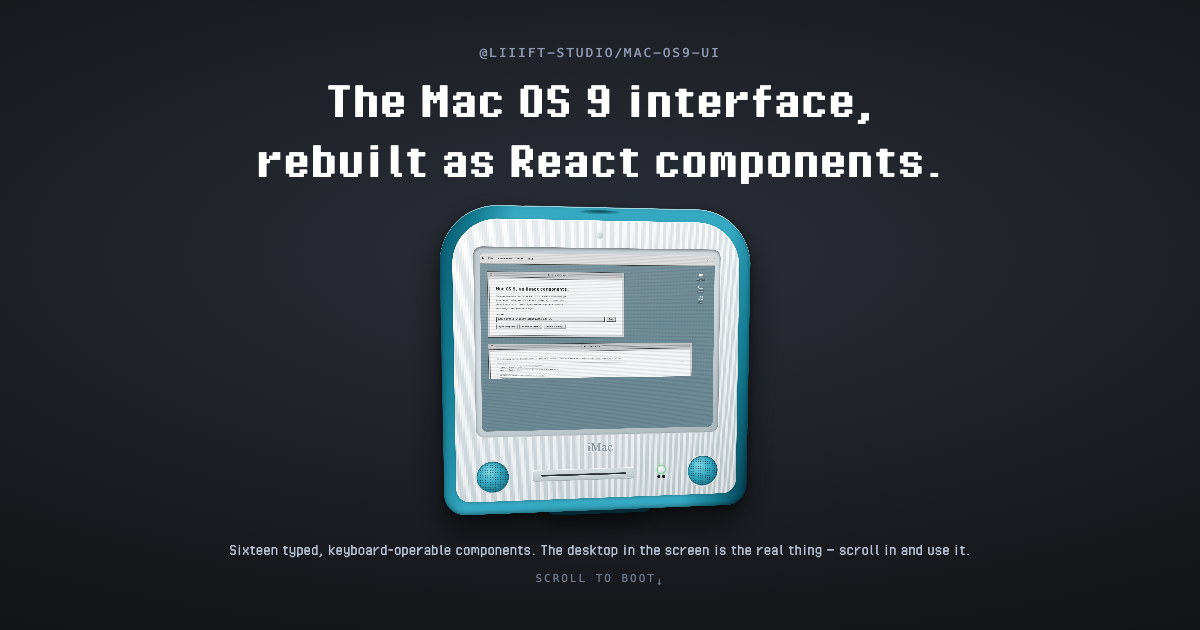
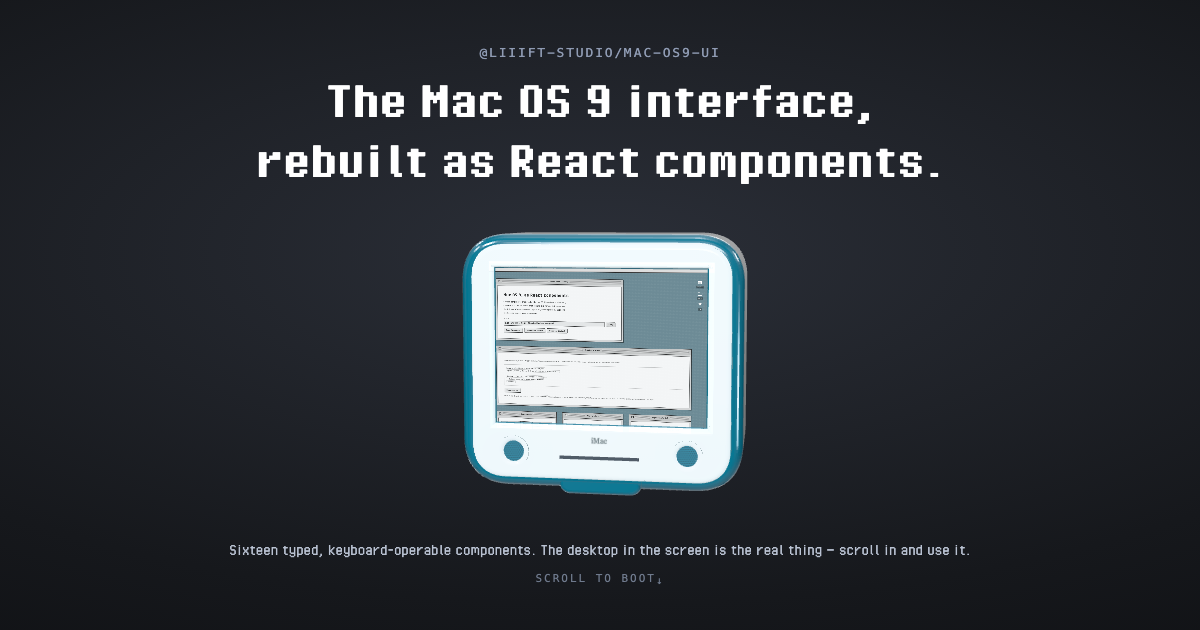
Site: menu bar above the windows, machine centred and larger, translucent shell
Three things wrong on the deployed page, plus one I introduced fixing them.

Windows scrolled over the menu bar. WindowManager hands out `baseZIndex + stack
position` from a default base of 100, and the menu bar was on 60 — so window
content rode over the top of it instead of under. The bar sits above the whole
window range now.

The machine sat high in the hero and was small for the space. The camera looks
at (0, heroCentreY, 0), and a world point at y = 0 lands BELOW the viewport
centre when that target is positive — so the sign follows the band the copy
leaves free rather than opposing it. It was negated, which pushed the machine
up by exactly the amount it should have come down. It also fills 88% of that
band now rather than 66%.

The shell is translucent, which is the whole point of the machine — you could
see into it. This is only safe now that the aperture is cut out of the shell as
well as the front panel: a transmissive material is drawn in the transparent
pass, after the cutout has written its hole, so while the shell was a solid
slab it blended straight over the desktop and washed the entire screen cyan.
With no shell geometry over the aperture there is nothing left to wash it with.
The ice panel gets a little transmission too, since diffusing polycarbonate is
translucent rather than painted.

And the one I made: releasing the desktop wrote inline position styles onto the
host, and un-releasing cleared them — but CSS3DRenderer caches the transform it
[…]

Changed region(s): [[0.3392, 0.3016, 0.6475, 0.8143]]

diff --git a/site/src/components/MachineStage.tsx b/site/src/components/MachineStage.tsx
@@ -1,12 +1,21 @@
 // Chooses how the machine is drawn, and owns the handoff to the live desktop.
 //
-// The desktop lives in one detached host element for the whole session, and
-// that element is *moved* between three homes: the CSS3D layer while the WebGL
-// machine has it, a plain full-viewport wrapper once the zoom completes, and
-// the CSS machine's screen when WebGL is unavailable. Moving the node rather
-// than re-parenting it in React is what keeps the desktop's state — open
-// windows, chosen flavour, selected rows — across the handoff. React renders
-// into the host through a portal and never has to care where it currently is.
+// Two detached elements, created once and never re-created. `host` is the 4:3
+// aperture and belongs to CSS3DRenderer for the whole session — nothing else
+// ever writes to its style. `page` is the viewport-sized desktop inside it,
+// and *that* is what moves: into a plain full-viewport wrapper once the zoom
+// completes, and back into the aperture when you scroll away again.
+//
+// Moving the page rather than the host is deliberate. CSS3DRenderer caches the
+// transform it wrote per object and skips rewriting an unchanged one, so any
+// inline style cleared off the host is never restored — the aperture ends up
+// stranded without its transform and the desktop spills out beside the case.
+// Leaving the host alone means there is nothing to strand.
+//
+// Moving a node rather than re-parenting it in React is what keeps the
+// desktop's state — open windows, chosen flavour, selected rows — across the
+// handoff. React renders into `page` through a portal and never has to care
+// where it currently is.
 //
 // WebGL is loaded on demand and is never on the critical path: if it fails, is
 // unsupported, or the visitor prefers reduced motion, the desktop is simply
@@ -116,25 +125,18 @@ export function MachineStage({ children, above, below }: MachineStageProps) {
 			stage.dataset.released = next ? 'true' : 'false';
 
 			if (next) {
-				release.appendChild(host);
-				// CSS3DRenderer writes position and a matrix3d straight onto the
-				// element it owns. Those survive the move, so they have to be
-				// replaced rather than merely cleared — the aperture is wider
-				// and taller than the viewport, and the page inside it only
-				// lands at 0,0 if the host is centred and top-aligned.
-				host.style.position = 'absolute';
-				host.style.top = '0';
-				host.style.left = '50%';
-				host.style.transform = 'translateX(-50%)';
-				host.style.willChange = '';
-				host.removeAttribute('inert');
-				host.removeAttribute('aria-hidden');
+				// Only the page moves. Where it sits in each home is decided by
+				// CSS on the parent, so no inline style is written here at all.
+				release.appendChild(page);
+				page.removeAttribute('inert');
+				page.removeAttribute('aria-hidden');
 				handle?.setVisible(false);
 			} else {
+				host.appendChild(page);
 				// `inert` is set through the DOM rather than as a JSX prop
 				// because React 18 does not recognise it as a known attribute.
-				host.setAttribute('inert', '');
-				host.setAttribute('aria-hidden', 'true');
+				page.setAttribute('inert', '');
+				page.setAttribute('aria-hidden', 'true');
 				handle?.setVisible(true);
 			}
 		};
@@ -148,9 +150,9 @@ export function MachineStage({ children, above, below }: MachineStageProps) {
 
 		// --- Flat fallback: no machine, just the desktop ---------------------
 		const runFlat = () => {
-			release.appendChild(host);
-			host.removeAttribute('inert');
-			host.removeAttribute('aria-hidden');
+			release.appendChild(page);
+			page.removeAttribute('inert');
+			page.removeAttribute('aria-hidden');
 			stage.dataset.released = 'true';
 			released = true;
 			setMode('flat');

diff --git a/site/src/components/machineGL.ts b/site/src/components/machineGL.ts
@@ -39,8 +39,8 @@ const ICE_COLOUR = 0xdfe7ea;
 /** Field of view, degrees. Long-ish, so the machine reads as a product shot. */
 const FOV = 32;
 
-/** Fraction of the viewport the machine fills in the hero. */
-const HERO_FILL = 0.66;
+/** Fraction of the free band the machine fills in the hero. */
+const HERO_FILL = 0.88;
 
 export interface MachineGLOptions {
 	/** Element the two renderers are appended to. */
@@ -252,19 +252,29 @@ export async function createMachineGL(options: MachineGLOptions): Promise<Machin
 	const machine = new THREE.Group();
 	scene.add(machine);
 
-	// Deliberately not `transmission`. A transmissive material is drawn in the
-	// transparent pass, after the cutout has written its hole — so it blends
-	// straight over the desktop and washes the whole screen cyan. Clearcoat
-	// over a saturated base gives the same wet-plastic read, renders in the
-	// opaque pass where the cutout can occlude it, and costs far less.
+	// The shell is translucent, because that is the whole point of the machine:
+	// you could see into it.
+	//
+	// This is only safe now that the aperture is cut out of the shell as well
+	// as the front panel. A transmissive material is drawn in the transparent
+	// pass, after the cutout has written its hole — so while the shell was a
+	// solid slab it blended straight over the desktop and washed the entire
+	// screen cyan. With no shell geometry over the aperture there is nothing
+	// left to wash it with.
 	const shellMaterial = new THREE.MeshPhysicalMaterial({
 		color: SHELL_COLOUR,
-		roughness: 0.18,
+		roughness: 0.14,
 		metalness: 0,
 		clearcoat: 1,
-		clearcoatRoughness: 0.05,
+		clearcoatRoughness: 0.04,
+		transmission: 0.55,
+		// Thickness drives how much the colour deepens through the material,
+		// which is what makes a moulded edge read thicker than a flat face.
+		thickness: 260,
+		attenuationDistance: 900,
+		attenuationColor: new THREE.Color(0x0a5568),
 		ior: 1.52,
-		envMapIntensity: 1.15,
+		envMapIntensity: 1.2,
 	});
 
 	// Frosted polycarbonate: a soft, slightly blue body under a hard gloss
@@ -276,6 +286,10 @@ export async function createMachineGL(options: MachineGLOptions): Promise<Machin
 		metalness: 0,
 		clearcoat: 1,
 		clearcoatRoughness: 0.12,
+		// Frosted rather than clear: a little transmission through a rough
+		// surface is what diffusing polycarbonate does.
+		transmission: 0.22,
+		thickness: 90,
 		sheen: 0.6,
 		sheenRoughness: 0.5,
 		sheenColor: new THREE.Color(0xbfd6dd),
@@ -559,9 +573,13 @@ export async function createMachineGL(options: MachineGLOptions): Promise<Machin
 
 		// Centre the machine in that band rather than in the viewport. The
 		// band's midpoint in pixels, converted to world units at hero distance.
+		// The camera looks at (0, heroCentreY, 0), and a world point at y = 0
+		// lands BELOW the viewport centre when that target is positive — so the
+		// sign follows the band rather than opposing it. It was negated, which
+		// pushed the machine up by exactly the amount it should have come down.
 		const bandCentrePx = (heroBand.top + heroBand.bottom) / 2 - viewH / 2;
 		const worldPerPixel = (2 * heroDistance * halfFov) / viewH;
-		heroCentreY = -bandCentrePx * worldPerPixel;
+		heroCentreY = bandCentrePx * worldPerPixel;
 	};
 
 	const resize = () => {

diff --git a/site/src/styles/site.css b/site/src/styles/site.css
@@ -201,14 +201,14 @@ a {
 	z-index: 3;
 }
 
-/* Released back into plain layout. The aperture is larger than the viewport,
- * so it is centred and top-aligned — which is what puts the page inside it at
- * exactly 0, 0. */
-.machineRelease > .machineScreen__live {
-	position: absolute;
-	top: 0;
-	left: 50%;
-	transform: translateX(-50%);
+/* Released back into plain layout: the page leaves the aperture entirely and
+ * becomes the viewport. The aperture itself never moves — it belongs to
+ * CSS3DRenderer, and anything cleared off it is never restored, because the
+ * renderer caches the transform it wrote and skips rewriting an unchanged
+ * one. */
+.machineRelease > .machineScreen__page {
+	left: 0;
+	transform: none;
 }
 
 .zoomStage[data-released='true'] .machineScreen__page {
@@ -253,7 +253,7 @@ a {
 /* Once the zoom has finished, the desktop is the thing you are using: it
  * takes pointer events and scrolls its own content. Before that it is scenery,
  * and MachineStage has it marked inert so it is out of the tab order too. */
-.zoomStage[data-released='false'] .machineScreen__live {
+.zoomStage[data-released='false'] .machineScreen__page {
 	pointer-events: none;
 }
 
@@ -289,7 +289,10 @@ a {
 .desktopMenuBar {
 	position: sticky;
 	top: 0;
-	z-index: 60;
+	/* Above the window stack. WindowManager hands out `baseZIndex + position`
+	 * from a default base of 100, bounded by the number of windows — so at 60
+	 * every window scrolled straight over the menu bar instead of under it. */
+	z-index: 200;
 }
 
 
